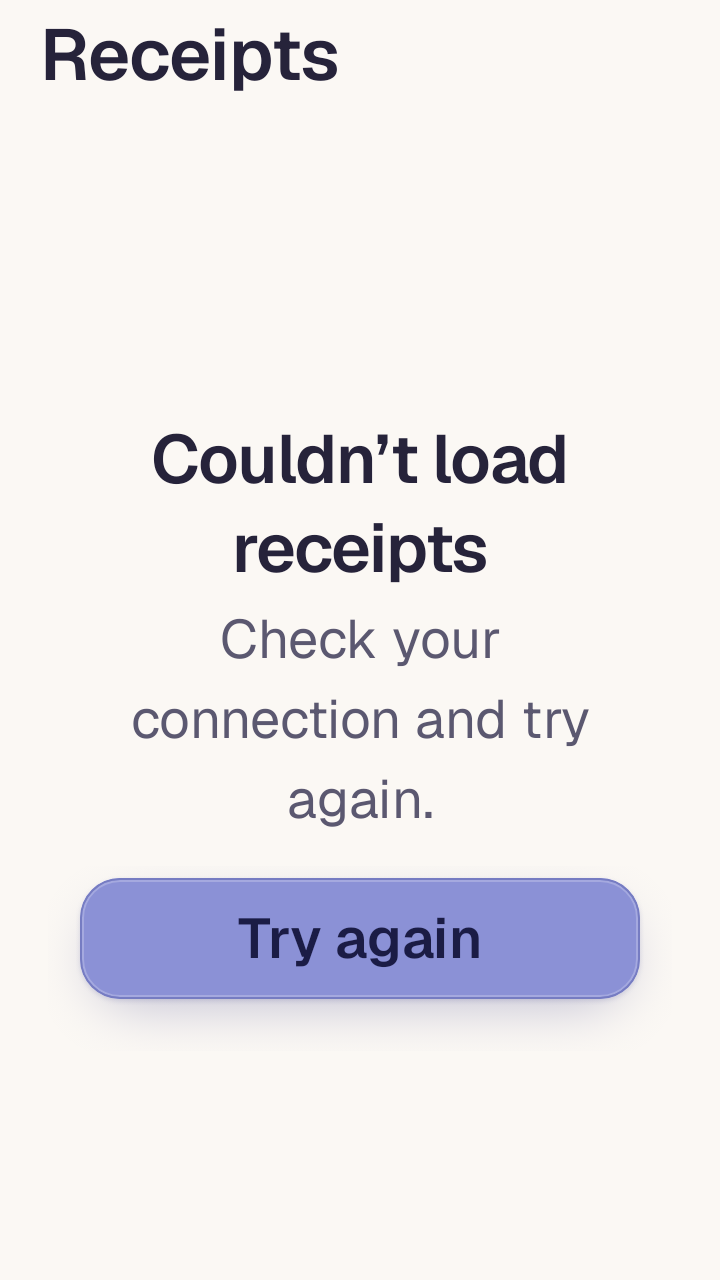
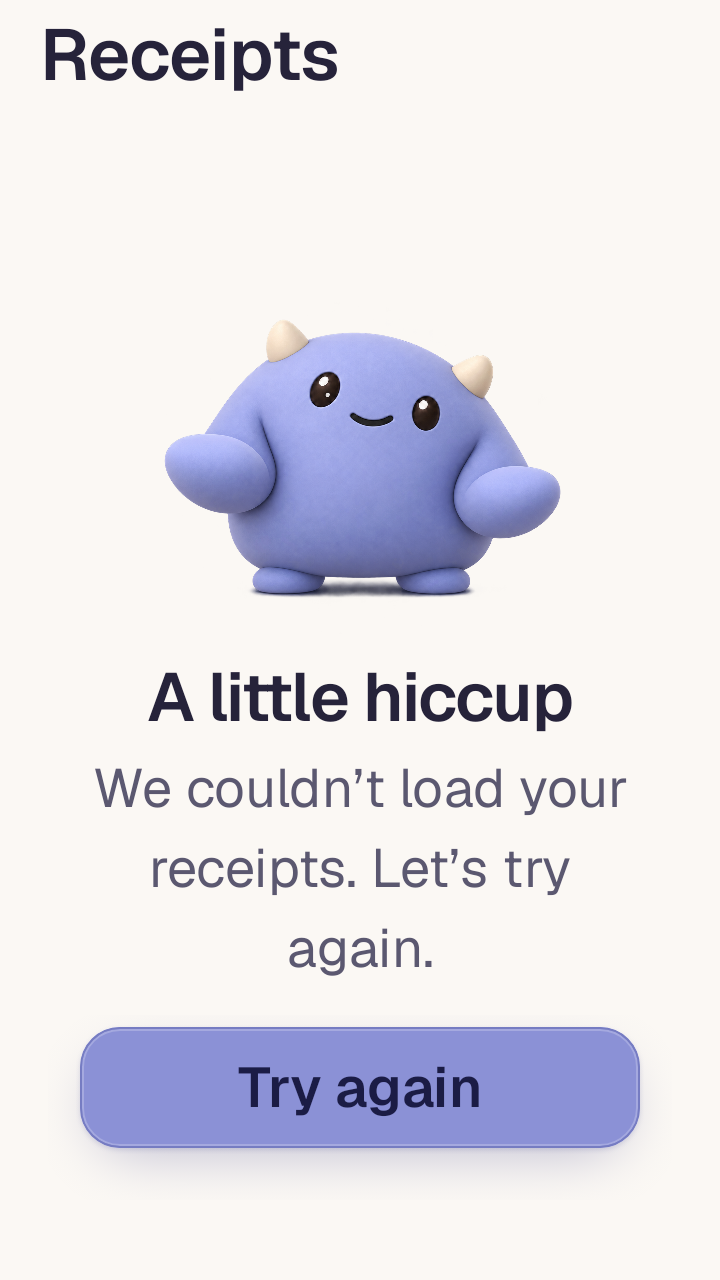
feat(goho-android): add reassuring Bram to receipt retry
- add the approved no-thumbs shrug and calmer load-error copy
- update design guidance, artwork provenance and native screen references

Changed region(s): [[0.0917, 0.25, 0.9167, 0.9062]]

diff --git a/programs/goho-android/tools/bram-captures/harness/src/com/adamaho/goho/evidence/ReceiptEvidenceTest.kt b/programs/goho-android/tools/bram-captures/harness/src/com/adamaho/goho/evidence/ReceiptEvidenceTest.kt
@@ -129,7 +129,7 @@ class ReceiptEvidenceTest {
         assumeTrue(output.name == "after")
         compose.mainClock.autoAdvance = false
         render(ReceiptOverviewState(error = true), reduced = true)
-        compose.onNodeWithText("Couldn’t load receipts").assertIsDisplayed()
+        compose.onNodeWithText("A little hiccup").assertIsDisplayed()
         val initial = File(output, "reduced-motion-initial.png")
         val later = File(output, "reduced-motion-later.png")
         val pressed = File(output, "reduced-motion-pressed.png")
@@ -151,7 +151,7 @@ class ReceiptEvidenceTest {
     }
     @Test fun retryFailureAndSuccess() {
         render(ReceiptOverviewState(error = true), reduced = false)
-        val title = "Couldn’t load receipts"
+        val title = "A little hiccup"
         compose.mainClock.advanceTimeBy(1000)
         val before = compose.onNodeWithText(title).fetchSemanticsNode().boundsInRoot
         compose.onNodeWithText("Try again").performClick()

diff --git a/.agents/skills/goho-design/assets/compose/GohoComponents.kt b/.agents/skills/goho-design/assets/compose/GohoComponents.kt
@@ -989,7 +989,8 @@ fun GohoDeleteError(modifier: Modifier = Modifier) {
 /** Current status content sits directly on the screen background. No receipts supplies receipt-holding Bram.
  * Empty Needs attention supplies calm thumbs-up Bram with "All good" and "Nothing needs your attention right now."
  * Each state uses its transparent illustration unchanged in both themes, with a 4dp gap before its title.
- * The Receipts header is text-only in every state. Load error omits illustration.
+ * Load error supplies gentle shrugging Bram with "A little hiccup" and "We couldn’t load your receipts. Let’s try again."
+ * The Receipts header is text-only in every state.
  * For retry, pass announcePolitely = true and reserve both button labels.
  * ReceiptOverview owns the success crossfade and passes animateEntrance = false on the incoming status content.
  */

diff --git a/programs/goho-android/app/src/main/kotlin/com/adamaho/goho/ui/components/ReceiptsConnectionErrorState.kt b/programs/goho-android/app/src/main/kotlin/com/adamaho/goho/ui/components/ReceiptsConnectionErrorState.kt
@@ -18,6 +18,7 @@ fun ReceiptsConnectionErrorState(
         title = stringResource(R.string.receipts_load_failed),
         description = stringResource(R.string.receipts_load_failed_body),
         modifier = modifier,
+        illustration = R.drawable.status_load_error,
         animateEntrance = animateEntrance,
         announcePolitely = true,
     ) {

diff --git a/.agents/skills/goho-design/SKILL.md b/.agents/skills/goho-design/SKILL.md
@@ -5,7 +5,7 @@ description: Goho's visual design system and screen specs for the native Android
 
 # Goho design
 
-Design handoff: October 7, 2026 calm “All good” Bram for the empty Needs attention filter, building on the no-receipts and cardless layout refinement (PR #102), October 5 Bram refinements (PR #101), and October 2 v2 package. The approved app refinements below take precedence over older examples in the reference assets.
+Design handoff: October 8, 2026 gentle shrugging Bram for receipt load errors, building on calm “All good” Bram and the text-only header (PR #103), the no-receipts and cardless layout refinement (PR #102), October 5 Bram refinements (PR #101), and October 2 v2 package. The approved app refinements below take precedence over older examples in the reference assets.
 
 Goho is a family receipt-scanning app. The look is **warm, soft and friendly, with financial-app precision**: warm off-white in light mode, violet-charcoal in dark mode, one lavender accent, generous rounded corners, Geist type with restrained weights and proportional figures, grouped cards, and buttons that press down with a small spring.
 
@@ -13,7 +13,7 @@ Think "Family wallet's warmth and motion, Linear's calm surfaces", never "Materi
 
 ## Bram refinements
 
-Buttons use flat fills, darker edge rings, faint inner rings and soft wide shadows; see `references/tokens.md`. The app uses two Bram illustrations from `assets/illustrations/`: no receipts and the calm thumbs-up for the empty Needs attention filter. Neutral Bram assets remain identity references only. Render the supplied artwork unchanged. All three list status states render directly on the screen background, without an enclosing card fill, border or rounded clipping. Preserve their content padding and placement, with a 4dp gap between each illustration slot and its title. The no-receipts state uses one transparent image of Bram cradling a blank receipt in both themes. The empty Needs attention state uses one transparent image of Bram giving a calm thumbs-up in both themes, with “All good” and “Nothing needs your attention right now.” Keep his familiar lilac and cream palette, soft smile and rounded arm; no confetti or streamers. Load-error content remains text and retry action, without illustration or reserved illustration space. Additional character poses and accessories are deferred until their feature is implemented. Interactive accents are lavender. The Receipts header is text-only in every state, with the title at the 20dp text inset in a row at least 44dp tall. Buttons have 20dp corners and Scan 24dp. Status entrance, retry, recovery, and large-text behavior are specified in `references/screens.md` section 6.
+Buttons use flat fills, darker edge rings, faint inner rings and soft wide shadows; see `references/tokens.md`. The app uses three Bram illustrations from `assets/illustrations/`: no receipts, the calm thumbs-up for the empty Needs attention filter, and a gentle shrug for receipt load errors. Neutral Bram assets remain identity references only. Render the supplied artwork unchanged. All three list status states render directly on the screen background, without an enclosing card fill, border or rounded clipping. Preserve their content padding and placement, with a 4dp gap between each illustration slot and its title. The no-receipts state uses one transparent image of Bram cradling a blank receipt in both themes. The empty Needs attention state uses one transparent image of Bram giving a calm thumbs-up in both themes, with “All good” and “Nothing needs your attention right now.” Keep his familiar lilac and cream palette, soft smile and rounded arm; no confetti or streamers. The load-error state uses one transparent image of Bram gently shrugging with his original rounded arms, without thumbs, in both themes. Pair it with “A little hiccup”, “We couldn’t load your receipts. Let’s try again.”, and the existing retry action. Additional character poses and accessories are deferred until their feature is implemented. Interactive accents are lavender. The Receipts header is text-only in every state, with the title at the 20dp text inset in a row at least 44dp tall. Buttons have 20dp corners and Scan 24dp. Status entrance, retry, recovery, and large-text behavior are specified in `references/screens.md` section 6.
 
 ## Geist typography
 
@@ -58,7 +58,7 @@ The current handoff keeps the same receipt photo, merchant, amount and date head
 2. Build the primitives in `references/components.md`. `assets/compose/GohoComponents.kt` is a reference implementation of them; it has not been compiled, so treat it as a strong starting point and fix any API drift against the project's Compose version.
 3. Build screens from `references/screens.md`, which has the layout top to bottom with measurements, copy, states and behavior.
 4. Compare against the mockups listed in `assets/mockups/README.md`. The written spec wins if they disagree.
-5. When an approved UI change alters the design, update the affected specs, Compose references, illustration assets, and current mockups together. Preserve supplied artwork; label older reference assets as historical rather than presenting them as current. Keep the neutral Bram identity reference and generation prompts in `assets/illustrations/bram/`, approved artwork in `assets/illustrations/`, and current screen references in `assets/mockups/`. Ship only the no-receipts and empty Needs attention illustrations. Keep neutral Bram artwork as design identity references only; defer other character states and concept sheets until their implementation. The Android capture tooling lives in `programs/goho-android/tools/bram-captures/` at the repository root; generated captures and reports belong in the ignored Android `build/` directory.
+5. When an approved UI change alters the design, update the affected specs, Compose references, illustration assets, and current mockups together. Preserve supplied artwork; label older reference assets as historical rather than presenting them as current. Keep the neutral Bram identity reference and generation prompts in `assets/illustrations/bram/`, approved artwork in `assets/illustrations/`, and current screen references in `assets/mockups/`. Ship only the no-receipts, empty Needs attention and load-error illustrations. Keep neutral Bram artwork as design identity references only; defer other character states and concept sheets until their implementation. The Android capture tooling lives in `programs/goho-android/tools/bram-captures/` at the repository root; generated captures and reports belong in the ignored Android `build/` directory.
 6. Verify the requested behavior against the current Goho server and Android flow before implementing it. Mockups do not establish backend support.
 
 ## Approved receipt-list refinements

diff --git a/programs/goho-android/tools/bram-captures/README.md b/programs/goho-android/tools/bram-captures/README.md
@@ -19,8 +19,8 @@ Thirteen existing test filters cover the implemented screens and transitions:
 - Load error: `loadErrorLight`, `loadErrorDark`, and `largeTextError`.
 - Retry and deletion: `retryFailureAndSuccess` and `deleteLastFailedOverall`.
 
-The no-receipts and empty Needs attention states use their approved Bram artwork. All three states sit directly on the screen background. The Receipts header uses text only; illustrated status states use the shared 4dp image-to-title spacing. Empty Needs attention pairs the calm thumbs-up pose with “All good” and “Nothing needs your attention right now.” Load errors use text and the existing retry action. The captures cover light and dark at 360×800dp, short at 360×640dp, tall at 412×960dp, and 2× font at 360×640dp, all at 2× density. Large-text checks capture initial and scrolled states and assert that their relevant copy or actions are reachable. The retry check verifies loading, failure, and recovery without shifting the error title; the deletion check verifies that deleting the last failed receipt preserves the selected Needs attention tab and visible Scan action. Fifteen selected screenshots are the approved mockups; the three additional initial large-text screenshots remain generated output.
+The no-receipts, empty Needs attention, and load-error states use their approved Bram artwork. All three states sit directly on the screen background. The Receipts header uses text only; illustrated status states use the shared 4dp image-to-title spacing. Empty Needs attention pairs the calm thumbs-up pose with “All good” and “Nothing needs your attention right now.” Load errors pair the gentle shrug pose with “A little hiccup”, “We couldn’t load your receipts. Let’s try again.”, and the existing retry action. The captures cover light and dark at 360×800dp, short at 360×640dp, tall at 412×960dp, and 2× font at 360×640dp, all at 2× density. Large-text checks capture initial and scrolled states and assert that their relevant copy or actions are reachable. The retry check verifies loading, failure, and recovery without shifting the error title; the deletion check verifies that deleting the last failed receipt preserves the selected Needs attention tab and visible Scan action. Fifteen selected screenshots are the approved mockups; the three additional initial large-text screenshots remain generated output.
 
-Artwork references and generation prompts live under [the design skill's Bram sources](../../../../.agents/skills/goho-design/assets/illustrations/bram/). The approved PNG masters are [status-no-receipts.png](../../../../.agents/skills/goho-design/assets/illustrations/status-no-receipts.png) and [status-needs-attention.png](../../../../.agents/skills/goho-design/assets/illustrations/status-needs-attention.png). Approved screen references live in [its mockups directory](../../../../.agents/skills/goho-design/assets/mockups/). Generated capture history remains available in Git: commit `4a866b9` contains the original-artwork baseline and the card-backed receipt artwork, and `69c44fb` contains the cardless state, under the former `art/bram/no-receipts-review/` path.
+Artwork references and generation prompts live under [the design skill's Bram sources](../../../../.agents/skills/goho-design/assets/illustrations/bram/). The approved PNG masters are [status-no-receipts.png](../../../../.agents/skills/goho-design/assets/illustrations/status-no-receipts.png), [status-needs-attention.png](../../../../.agents/skills/goho-design/assets/illustrations/status-needs-attention.png), and [status-load-error.png](../../../../.agents/skills/goho-design/assets/illustrations/status-load-error.png). Approved screen references live in [its mockups directory](../../../../.agents/skills/goho-design/assets/mockups/). Generated capture history remains available in Git: commit `4a866b9` contains the original-artwork baseline and the card-backed receipt artwork, and `69c44fb` contains the cardless state, under the former `art/bram/no-receipts-review/` path.
 
-The Kotlin harness was recovered from commit `c8f96f46a34118d3d45e44f3f7b2aa710afb86a8`. Source changes remove the obsolete `output.name == "after"` phase guard from the existing deletion helper so it runs in the current output directory and update attention-state assertions to the approved “All good” copy. [Harness provenance](harness-provenance.json) records original/current hashes, those changes, and Gradle portability changes. Dependencies and test sources are added only for this invocation through `harness/init.gradle`; production Gradle files and app tests are unchanged. Filters run the 13 checks listed above.
+The Kotlin harness was recovered from commit `c8f96f46a34118d3d45e44f3f7b2aa710afb86a8`. Source changes remove the obsolete `output.name == "after"` phase guard from the existing deletion helper so it runs in the current output directory and update attention/error-state assertions to the approved “All good” and “A little hiccup” copy. [Harness provenance](harness-provenance.json) records original/current hashes, those changes, and Gradle portability changes. Dependencies and test sources are added only for this invocation through `harness/init.gradle`; production Gradle files and app tests are unchanged. Filters run the 13 checks listed above.

diff --git a/.agents/skills/goho-design/assets/illustrations/README.md b/.agents/skills/goho-design/assets/illustrations/README.md
@@ -1,13 +1,14 @@
 # Bram illustrations
 
-The app ships two Bram illustrations: the no-receipts empty state and calm “All good” pose for the empty Needs attention filter. These PNGs are byte-for-byte copies of the Android drawable assets; keep both copies synchronized when artwork changes. Neutral Bram artwork remains here as a design identity reference only. The Receipts header is text-only in every state.
+The app ships three Bram illustrations: the no-receipts empty state, calm “All good” pose for the empty Needs attention filter, and gentle shrug for receipt load errors. These PNGs are byte-for-byte copies of the Android drawable assets; keep both copies synchronized when artwork changes. Neutral Bram artwork remains here as a design identity reference only. The Receipts header is text-only in every state.
 
 - `bram-mark.png`: neutral Bram identity reference retained from PR #101. It is not shipped or displayed in the app.
 - `status-no-receipts.png`: Bram gently cradling a small blank cream receipt. The same transparent asset is used in light and dark mode, directly on the screen background alongside the empty-state copy, without a surrounding card. No separate plus badge or typing indicator.
 - `status-needs-attention.png`: Bram giving a calm thumbs-up with his familiar smile, rounded arm and lilac and cream palette. Pair it with “All good” and “Nothing needs your attention right now.” The same transparent asset serves both themes directly on the screen background, without a card, confetti or streamers.
+- `status-load-error.png`: Bram gently shrugging with his original rounded arms, without thumbs. Pair it with “A little hiccup” and “We couldn’t load your receipts. Let’s try again.” The same transparent lilac and cream asset serves both themes, directly on the screen background above the retry action.
 
-Both empty-state PNGs are 1350×1165 RGBA. Render both empty-state illustrations unchanged with ContentScale.Fit in the shared 220×190dp slot that can shrink proportionally on narrow screens, with a 4dp gap before the title. Artwork is decorative; text supplies the accessible meaning. Android names use underscores instead of hyphens. Load error uses text and its retry action directly on the screen background, without a card or illustration. Additional character states and concept sheets are deferred until their feature is implemented.
+All three PNGs are 1350×1165 RGBA. Render all three illustrations unchanged with ContentScale.Fit in the shared 220×190dp slot that can shrink proportionally on narrow screens, with a 4dp gap before the title. Artwork is decorative; text supplies the accessible meaning. Android names use underscores instead of hyphens. Load error retains its text-only Receipts header, no filters or Scan, and a stable disabled retry button while retrying. Additional character states and concept sheets are deferred until their feature is implemented.
 
 The SVGs in `legacy/` are the October 2 paper-and-pastel illustrations. They are retained for provenance, not as editable sources for the Bram PNGs. Do not re-export them over the current artwork. No editable Bram source is included in this PR.
 
-The neutral Bram identity reference and generation prompts live in [bram/](bram/README.md). `status-no-receipts.png` and `status-needs-attention.png` are the approved masters; their Android drawables are production copies. Current screen captures live in [mockups/](../mockups/README.md). Android capture tooling lives in `programs/goho-android/tools/bram-captures/` at the repository root and writes generated evidence to the ignored Android `build/` directory. Earlier resources and review evidence remain in Git history at commit `69c44fb`. Both empty-state illustrations were created with built-in imagegen; they are raster sources, not editable 3D rigs.
+The neutral Bram identity reference and generation prompts live in [bram/](bram/README.md). `status-no-receipts.png`, `status-needs-attention.png` and `status-load-error.png` are the approved masters; their Android drawables are production copies. Current screen captures live in [mockups/](../mockups/README.md). Android capture tooling lives in `programs/goho-android/tools/bram-captures/` at the repository root and writes generated evidence to the ignored Android `build/` directory. Earlier resources and review evidence remain in Git history at commit `69c44fb`. All three illustrations were created with built-in imagegen; they are raster sources, not editable 3D rigs.

diff --git a/.agents/skills/goho-design/references/screens.md b/.agents/skills/goho-design/references/screens.md
@@ -147,7 +147,7 @@ One GohoSheet, opened from the details screen's overflow button, by pressing and
 
 ## 6. Empty and error states
 
-Mockups: `empty-needs-attention*.png`, `empty-no-receipts*.png`, `load-error*.png` (dark and `-light`). All three use the shared status content layout (components.md), directly on the screen background without an enclosing card fill, border or rounded clipping. No receipts and empty Needs attention each share one transparent Bram asset across both themes. Render both unchanged, with a 4dp gap between the illustration slot and title. The Receipts header is text-only in every state. Load error shows text and the retry action, without an illustration or reserved illustration space. Dedicated character artwork for other states is deferred until its feature is implemented. Older SVG illustrations are historical.
+Mockups: `empty-needs-attention*.png`, `empty-no-receipts*.png`, `load-error*.png` (dark and `-light`). All three use the shared status content layout (components.md), directly on the screen background without an enclosing card fill, border or rounded clipping. No receipts, empty Needs attention and load error each share one transparent Bram asset across both themes. Render each unchanged in the shared 220×190dp slot, with a 4dp gap before the title. The Receipts header is text-only in every state. Load error includes the retry action. Dedicated character artwork for other states is deferred until its feature is implemented. Older SVG illustrations are historical.
 
 **Layout and transitions**
 
@@ -168,9 +168,9 @@ Mockups: `empty-needs-attention*.png`, `empty-no-receipts*.png`, `load-error*.pn
 - Bram and the copy are centered between the header and Scan footer, directly on the plain screen background. Omit card fill, border and rounded clipping. Preserve the shared status content padding and illustration size, with a 4dp gap before the title. Illustration `status-no-receipts`: Bram gently cradles a small blank cream receipt in front of his lower belly, with a welcoming smile. Preserve his broad lilac body, long rounded arms, small ivory horns and tiny feet. The single transparent PNG serves both themes; there is no separate floating receipt, plus badge or typing indicator.
 - Title "No receipts yet"; text "Tap Scan to add your first one." No button.
 
-**Couldn’t load receipts** (the list request failed)
+**A little hiccup** (the list request failed)
 
 - Header shows only the “Receipts” title. No filter or Scan button.
-- Text and retry action centered in the available area below the header, directly on the screen background. Omit the illustration and the gap that would precede the title.
-- Title "Couldn’t load receipts"; text "Check your connection and try again."; full-width GohoPrimaryButton "Try again" 22dp below the text. While retrying, the button shows "Trying again…" and is disabled.
+- Bram, copy and retry action are centered in the available area below the header, directly on the screen background. Illustration `status-load-error`: Bram gives a gentle shrug with his original rounded arms, without thumbs. Preserve the approved lilac and cream artwork unchanged in both themes, using the shared 220×190dp slot and 4dp title gap.
+- Title "A little hiccup"; text "We couldn’t load your receipts. Let’s try again."; full-width GohoPrimaryButton "Try again" 22dp below the text. While retrying, the button shows "Trying again…" and is disabled, with stable bounds.
 - Announce the status content as a polite live region when it appears.

diff --git a/.agents/skills/goho-design/assets/mockups/README.md b/.agents/skills/goho-design/assets/mockups/README.md
@@ -1,12 +1,12 @@
 # Mockups
 
-## Current status states (October 7, 2026 calm All good Bram)
+## Current status states (October 8, 2026 gentle retry Bram)
 
-These captures render the production ReceiptOverview and its components using Robolectric native Android graphics (API 35) and Roborazzi. They are app renders without system bars, not emulator screenshots or redrawn mock layouts. The current captures show Bram cradling a blank receipt in the no-receipts state, a calm thumbs-up with “All good” in the empty Needs attention state, and text with a retry action in the load-error state. Content sits directly on the screen background, with a 4dp gap between each empty-state illustration slot and title. The Receipts header is text-only in every state. None of the three status states has an enclosing card. Their capture tooling is in `programs/goho-android/tools/bram-captures/` at the repository root. Dedicated Bram artwork for other states is deferred until their feature is implemented.
+These captures render the production ReceiptOverview and its components using Robolectric native Android graphics (API 35) and Roborazzi. They are app renders without system bars, not emulator screenshots or redrawn mock layouts. The current captures show Bram cradling a blank receipt in the no-receipts state, a calm thumbs-up with “All good” in the empty Needs attention state, and a gentle shrug with “A little hiccup” and the retry action in the load-error state. Content sits directly on the screen background, with a 4dp gap between each status illustration slot and title. The Receipts header is text-only in every state. None of the three status states has an enclosing card. Their capture tooling is in `programs/goho-android/tools/bram-captures/` at the repository root. Dedicated Bram artwork for other states is deferred until their feature is implemented.
 
 - `empty-needs-attention.png` and `empty-needs-attention-light.png`: Calm thumbs-up Bram with “All good” and “Nothing needs your attention right now.” directly on the screen background, text-only Receipts header, selected filter, and Scan.
 - `empty-no-receipts.png` and `empty-no-receipts-light.png`: No receipts yet, with Bram and copy directly on the screen background, no surrounding card, and Scan in its footer; no filters.
-- `load-error.png` and `load-error-light.png`: Load-error text and retry action directly on the screen background, title only in the header, no Bram illustration or Scan.
+- `load-error.png` and `load-error-light.png`: Gentle shrugging Bram with “A little hiccup”, “We couldn’t load your receipts. Let’s try again.” and the retry action directly on the screen background; title only in the header, no filters or Scan.
 - `retry-running.png`, `retry-failed.png`, `retry-succeeded.png`: Disabled retry with stable bounds, failure in place, and the loaded list after success (light).
 - `deleted-last-failed-overall.png`: Calm thumbs-up Bram and All good copy on the screen background, with a text-only Receipts header; Needs attention stays selected with All 0 after deleting the last failed receipt (light).
 - `large-font-load-error-scrolled.png`, `large-font-no-attention-scrolled.png`, `large-font-no-receipts-scrolled.png`: 2× font, scrolled to expose the body/action; Scan has its own footer where present.

diff --git a/.agents/skills/goho-design/references/components.md b/.agents/skills/goho-design/references/components.md
@@ -32,8 +32,8 @@ Reference implementations live in `assets/compose/GohoComponents.kt`. Every pres
 
 - Full width inside the screen margin, padding 28 top / 24 sides / 32 bottom (24 bottom when it has a button). Content centered directly on the screen background. No enclosing card fill, border or rounded clipping in any list status state.
 - Use the shared status content for no receipts, needs attention and load error. Preserve the shared padding, spacing, entrance and centered placement; the Scan footer stays separate when present.
-- No receipts and empty Needs attention show an illustration (220×190dp), followed by a 4dp gap before the title. Load error omits both the illustration and this gap. Title is 20/26 SemiBold −0.02em `textPrimary`, followed by a 6dp gap before body text in `body` `textSecondary` (max width 290dp), then an optional full-width button 22dp below.
-- Illustration assets live in `assets/illustrations/`. No receipts uses `status-no-receipts.png`; empty Needs attention uses the calm thumbs-up `status-needs-attention.png`. Both PNGs are 1350×1165 RGBA, with each state using the same transparent asset in both themes. Preserve the artwork unchanged and render with `ContentScale.Fit` in the existing slot up to 220dp wide with a 220:190 aspect ratio. These two poses are the only production Bram artwork. The neutral stance and former header mark are design identity references only; dedicated artwork for other states is deferred until its feature is implemented. The older SVGs in `legacy/` are not sources for these Bram images.
+- No receipts, empty Needs attention and load error each show an illustration (220×190dp), followed by a 4dp gap before the title. Title is 20/26 SemiBold −0.02em `textPrimary`, followed by a 6dp gap before body text in `body` `textSecondary` (max width 290dp), then an optional full-width button 22dp below.
+- Illustration assets live in `assets/illustrations/`. No receipts uses `status-no-receipts.png`; empty Needs attention uses the calm thumbs-up `status-needs-attention.png`; load error uses the gentle shrug `status-load-error.png`. All three PNGs are 1350×1165 RGBA, with each state using the same transparent asset in both themes. Preserve the artwork unchanged and render with `ContentScale.Fit` in the existing slot up to 220dp wide with a 220:190 aspect ratio. These three poses are the only production Bram artwork. The neutral stance and former header mark are design identity references only; dedicated artwork for other states is deferred until its feature is implemented. The older SVGs in `legacy/` are not sources for these Bram images.
 - The illustration is decorative (`contentDescription = null`); the title is a heading and the title/body group carries the meaning. Only the load-error content is a polite live region.
 - Entrance: one 200ms fade with a 6dp upward settle; no looping character animation. Successful retry crossfades the whole error screen to the loaded state in 200ms without replaying the incoming status entrance. With reduced motion, render the final state immediately.
 - The retry button reserves space for both “Try again” and “Trying again…” at the current font scale. Hidden measurement labels have no semantics. Disable the button while retrying and preserve its bounds after failure.

diff --git a/.agents/skills/goho-design/assets/illustrations/bram/README.md b/.agents/skills/goho-design/assets/illustrations/bram/README.md
@@ -3,9 +3,10 @@
 - `reference/bram-v3.png`: original neutral Bram identity and proportions; a design reference only, not shipped or displayed in the app.
 - `no-receipts.prompts.json`: generation and edge-refinement prompts for the no-receipts illustration. Current file references are relative to this directory; the historical pose reference is recorded as a Git object.
 - `needs-attention.prompts.json`: generation prompt and provenance for the approved calm thumbs-up illustration in the empty Needs attention state.
+- `load-error.prompts.json`: generation prompt and provenance for the approved gentle shrug illustration in the receipt load-error state.
 
-The approved PNG masters are [status-no-receipts.png](../status-no-receipts.png) and [status-needs-attention.png](../status-needs-attention.png). The Android drawables are their production copies; do not keep additional masters here. Preserve Bram’s broad lilac body, long rounded arms, small ivory horns, tiny feet and soft texture.
+The approved PNG masters are [status-no-receipts.png](../status-no-receipts.png), [status-needs-attention.png](../status-needs-attention.png) and [status-load-error.png](../status-load-error.png). The Android drawables are their production copies; do not keep additional masters here. Preserve Bram’s broad lilac body, long rounded arms, small ivory horns, tiny feet and soft texture.
 
-Only the no-receipts pose and calm thumbs-up for the empty Needs attention filter are shipped. The neutral Bram stance and former header mark remain design identity references only; the Receipts header is text-only in every state. The thumbs-up accompanies “All good” and “Nothing needs your attention right now.” Preserve its quiet lilac and cream palette without confetti or streamers. The earlier accessory concept sheet is preserved in Git history at the object named in `no-receipts.prompts.json`, because it was an input to this illustration. Additional character states and their source artwork will be added with their implementation in a later PR.
+Only the no-receipts pose, calm thumbs-up for the empty Needs attention filter, and gentle shrug for receipt load errors are shipped. The neutral Bram stance and former header mark remain design identity references only; the Receipts header is text-only in every state. The thumbs-up accompanies “All good” and “Nothing needs your attention right now.” The shrug accompanies “A little hiccup” and “We couldn’t load your receipts. Let’s try again.” Preserve the original rounded arms without thumbs in the shrug, and both poses’ quiet lilac and cream palette without confetti or streamers. The earlier accessory concept sheet is preserved in Git history at the object named in `no-receipts.prompts.json`, because it was an input to this illustration. Additional character states and their source artwork will be added with their implementation in a later PR.
 
 Current native screen references live in [mockups](../../mockups/). Regenerate them with the Android capture tooling in `programs/goho-android/tools/bram-captures/` at the repository root. Generated captures and reports belong in the ignored Android `build/` directory. Earlier artwork and review evidence remain in Git history.

diff --git a/.agents/skills/goho-design/references/tokens.md b/.agents/skills/goho-design/references/tokens.md
@@ -99,7 +99,7 @@ Plain `RoundedCornerShape` is fine. If the project already has a smooth-corner (
 - Detail list row: height 47, label left, value right.
 - Section spacing: 24 above a section label, 8 below it.
 - Header: text-only title row is at least 44 tall at status bar inset + 4dp. The Receipts title uses the 20dp text inset in every state; no Bram header mark.
-- Status illustrations: no receipts and empty Needs attention use the existing 220×190 slot and 4dp title gap. Fit each transparent asset unchanged in both themes; load error has no illustration or reserved gap.
+- Status illustrations: no receipts, empty Needs attention and load error use the existing 220×190 slot and 4dp title gap. Fit each transparent asset unchanged in both themes.
 - Bottom: FAB sits 28dp above the navigation bar inset, 16dp from the right.
 
 ## Elevation and shadow
